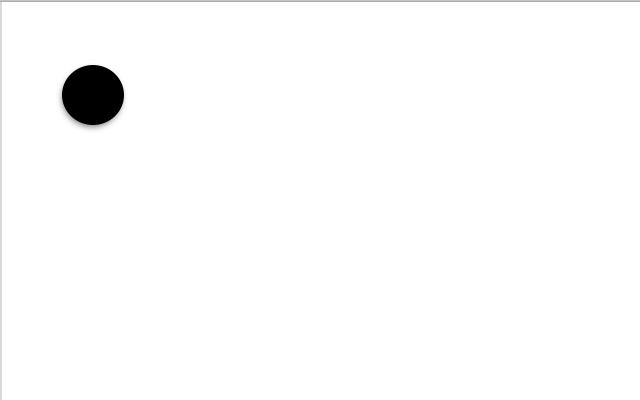
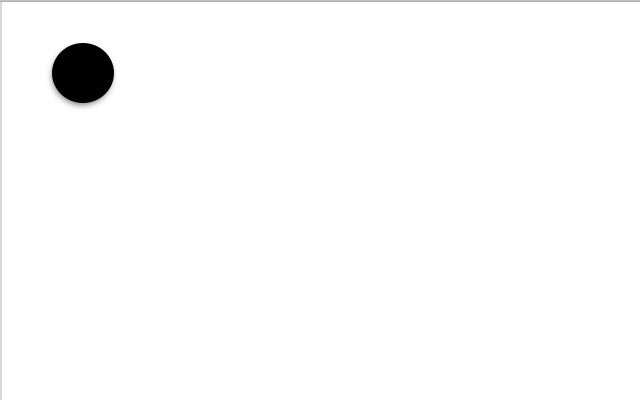
add threshold, add debug functions to show two close segments at the same time

Changed region(s): [[0.0625, 0.09, 0.2188, 0.33]]

diff --git a/BrutalMovDetector.m b/BrutalMovDetector.m
@@ -2,6 +2,10 @@ function [ res_r, res_c ] = BrutalMovDetector( pixel1, pixel2, seg_num, BlurFlag
 %BRUTALMOVDETECTOR Summary of this function goes here
 %   Detailed explanation goes here
 
+    %%%%%%%%%%%%%%%%%%%%%%%%%%%%%%%%%%%%%%%%%%%%%%%%%%%%%
+    %%%%%%%% parameters %%%%%%%%%%%%%%%%%%%%%%%%%%%%%%%%%
+     threshold = 6;
+
     %%%%%%%%%%%%%%%%%%%%%%%%%%%%%%%%%%%%%%%%
     %%% pre-check two images %%%%%%%%%%%%%%%
     %%%%%%%%%%%%%%%%%%%%%%%%%%%%%%%%%%%%%%%%
@@ -91,7 +95,7 @@ function [ res_r, res_c ] = BrutalMovDetector( pixel1, pixel2, seg_num, BlurFlag
                     for n = -numCounter:numCounter       
                         position.dx = m; % row offset
                         position.dy = n; % col offset
-                        diff = MAD(test_seg, pixel_n, position,num);
+                        diff = MAD(test_seg, pixel_n, position,num, threshold);
                         v(m+numCounter+1,n+numCounter+1) = diff.value;
                         d_r(m+numCounter+1,n+numCounter+1) = diff.row;
                         d_c(m+numCounter+1,n+numCounter+1) = diff.col;
@@ -119,6 +123,11 @@ function [ res_r, res_c ] = BrutalMovDetector( pixel1, pixel2, seg_num, BlurFlag
                     msg = sprintf('Motion vector is: (%d, %d)',opt_r, opt_c);
                     disp(msg);
                     test = 1;
+                    org_r = (i-1)*num + 1;
+                    org_c = (j-1)*num + 1;
+                    next_r = org_r + opt_r;
+                    next_c = org_c + opt_c;
+                    %plot2Segs(pixel1, org_r, org_c, pixel2, next_r, next_c, num);
                 end
                 
             end

diff --git a/findBallCenter.m b/findBallCenter.m
@@ -1,0 +1,53 @@
+function [ center_r, center_c ] = findBallCenter( p1 )
+%FINDBALLCENTER Summary of this function goes here
+%   Detailed explanation goes here
+
+[n_row, n_col] = size(p1);
+
+top1 = -1;
+bot1 = -1;
+left1 = -1;
+right1 = -1;
+
+for i = 1:n_row
+    row = p1(i,:);
+    find_res = find(row == 0);
+    if (size(find_res,2) ~= 0)
+        top1 = i;
+        break;
+    end
+end
+
+for i = n_row:-1:1
+    row = p1(i,:);
+    find_res = find(row == 0);
+    if (size(find_res,2) ~= 0)
+        bot1 = i;
+        break;
+    end
+end
+
+for i = 1:n_col
+    col = p1(:,i);
+    find_res = find(col == 0);
+    if (size(find_res,1) ~= 0)
+        left1 = i;
+        break;
+    end
+end
+
+for i = n_col:-1:1
+    col = p1(:,i);
+    find_res = find(col == 0);
+    if (size(find_res,1) ~= 0)
+        right1 = i;
+        break;
+    end
+end
+
+center_r = floor((top1 + bot1)/2);
+center_c = floor((left1 + right1)/2);
+
+
+end
+

diff --git a/main.m b/main.m
@@ -46,21 +46,33 @@ p1 = rgb2gray(p1);
 
 p2 = imread('f2.jpg');
 %p2 = imread('pseudo_f2.jpg');
+%p2 = imread('pseudo_f2_large_move.jpg');
 p2 = rgb2gray(p2);
 % 
 % p3 = imread('f3.jpg');
 % p3 = rgb2gray(p3);
 % 
 
-figure(1)
+subplot(3,1,1);
 v1 = zeros(10,16);
 v2 = zeros(10,16);
 ImagePlot(p1,40,v1,v2);
 
-figure(2)
+subplot(3,1,2);
 v1 = zeros(10,16);
 v2 = zeros(10,16);
 ImagePlot(p2,40,v1,v2);
+
+subplot(3,1,3);
+ImagePlotSuper(p1, p2,40,v1,v2);
+
+
+%%%%%%%%%%%%%%%%%%%%%%%%%%%%%%%%%%%%%%%%%%%%%%%%%%%
+%%%%%% find the center of two balls %%%%%%%%%%%%%%%
+%%%%%%%%%%%%%%%%%%%%%%%%%%%%%%%%%%%%%%%%%%%%%%%%%%%
+
+[center_r1, center_c1] = findBallCenter(p1);
+[center_r2, center_c2] = findBallCenter(p2);
 
 
 seg_num = 40;

diff --git a/plot2Segs.m b/plot2Segs.m
@@ -1,0 +1,23 @@
+function [  ] = plot2Segs( image1, r1, c1, image2, r2, c2, seg_size)
+%PLOT2SEGS Summary of this function goes here
+%   Detailed explanation goes here
+%%%%%%%%%%%%%%%%%%%%%%%%%%%%%%%%%%%%%%%%%%%%%%%%%%%%%%%%%%%%%
+%%%%%%%%%% Plot two segment on a same figure %%%%%%%%%%%%%%%%
+%%%%%%%%%%%%%%%%%%%%%%%%%%%%%%%%%%%%%%%%%%%%%%%%%%%%%%%%%%%%%
+
+
+seg1 = image1((r1:r1+seg_size-1), (c1:c1+seg_size-1));
+seg2 = image2((r2:r2+seg_size-1), (c2:c2+seg_size-1));
+
+figure;
+subplot(1,3,1);
+imshow(seg1);
+subplot(1,3,2);
+imshow(seg2);
+subplot(1,3,3);
+C = imfuse(seg1,seg2,'blend','Scaling','joint');
+imshow(C);
+
+
+end
+
